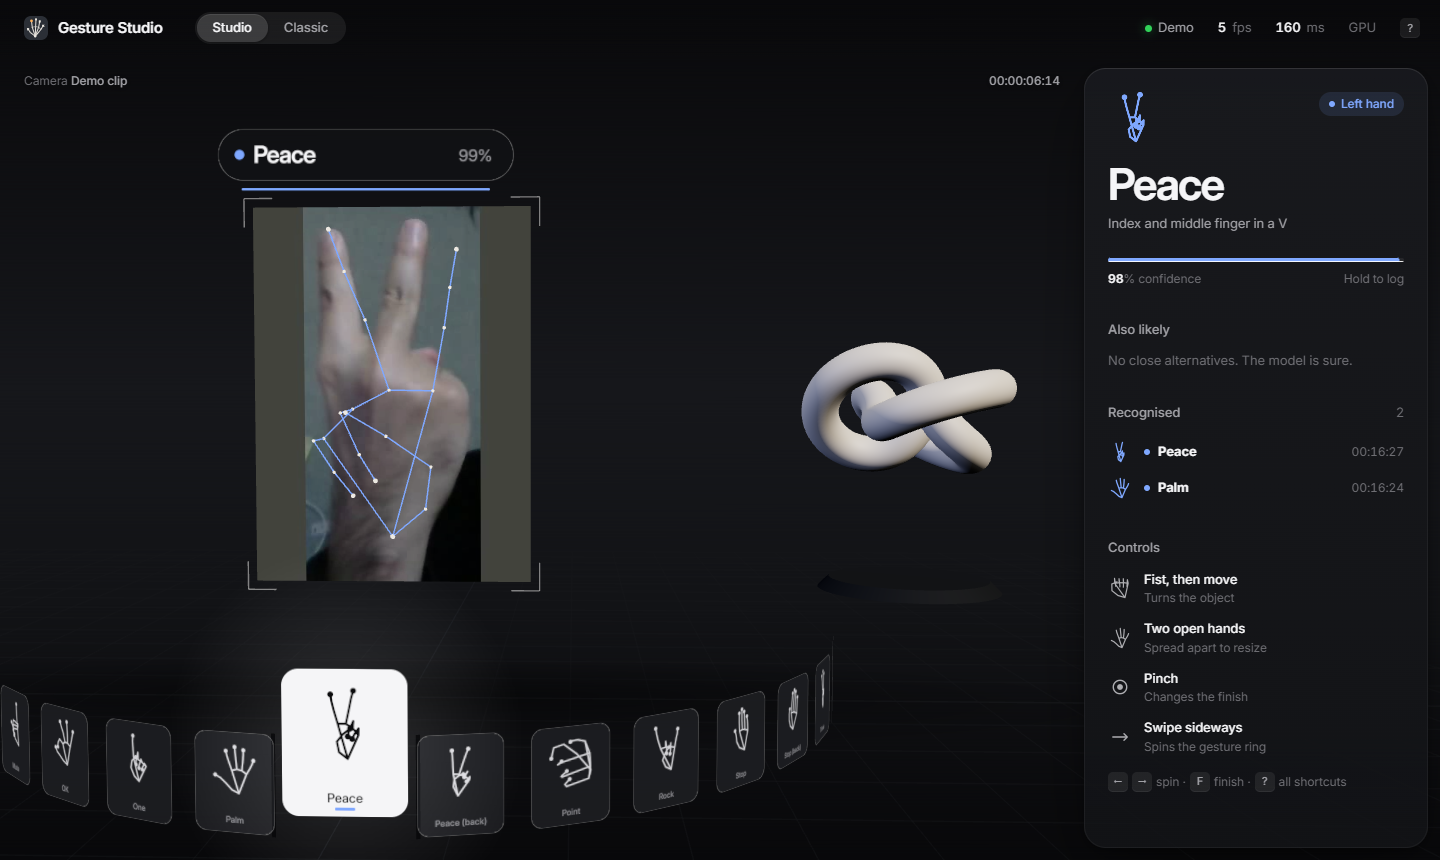
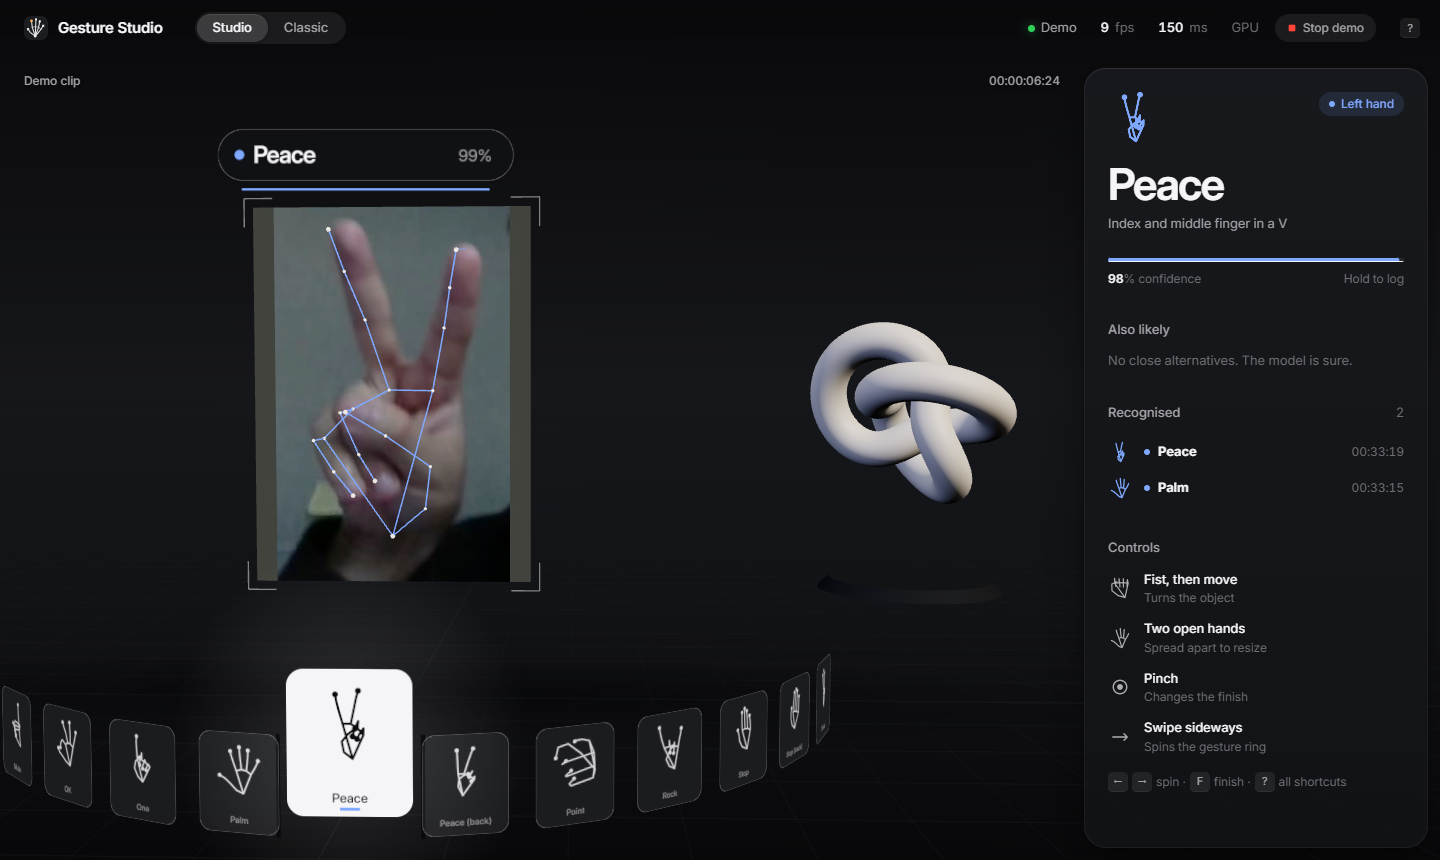
Stop control, seamless Studio/Classic switching, README refresh
- Stop button in the bar while anything is running, labelled "Stop demo" or
  "Stop camera" (X on the keyboard). It stops the stream or clip, clears the
  stage and panels, and returns to the start screen. Visible on phones too.
- Switching between Studio and Classic keeps the session: the source is remembered
  for the tab and resumed on the other page. A camera resumes only if permission is
  already granted (never a surprise prompt); stopping forgets it.
- "No close alternatives" appears only after the last row has faded out (no overlap).
- Slate reads "Demo clip" / "Camera · W × H"; logo uses the current palette.
- README: removes stale bloom / particle claims, describes the worker and motion
  model, and the start instructions match the new buttons.

diff --git a/web/js/studio3d.js b/web/js/studio3d.js
@@ -11,7 +11,7 @@ import { GESTURES, gestureInfo } from "./gestures-meta.js";
 import { PoseHero } from "./hero.js";
 import { approach, onFrame, reducedMotion, Spring, SpringList, stableRank, TweenNumber } from "./motion.js";
 import { describeCameraError, HandTracker } from "./tracker.js";
-import { announce, bindHelp, notice, typing } from "./ui.js";
+import { announce, bindHelp, notice, session, typing } from "./ui.js";
 
 const CONNECTIONS = [
   [0, 1], [1, 2], [2, 3], [3, 4], [0, 5], [5, 6], [6, 7], [7, 8], [5, 9], [9, 10], [10, 11], [11, 12],
@@ -635,13 +635,14 @@ function renderTips() {
 }
 
 let idle = null;
+let wantNote = false; // "no close alternatives": shown only once the last row has faded out
 let posesReady = false;
 function setIdle(on) {
   if (on === idle) return;
   idle = on;
   $("alts-idle").hidden = !on;
   $("alts").hidden = on;
-  if (on) $("alts-note").hidden = true;
+  if (on) wantNote = false;
   if (on) {
     altList.clear();
     if (posesReady) renderTips();
@@ -692,7 +693,7 @@ function updatePanel(state, t, landmarkMs) {
   // Only real contenders (>= 1%) are listed; a wall of 0% rows is noise, not information.
   const alts = stableRank(primary.top.filter((c) => c.id !== id && c.p >= 0.01).map((c) => ({ key: c.id, p: c.p })), [...altList.rows.keys()]).slice(0, 4);
   altList.set(alts);
-  $("alts-note").hidden = alts.length > 0;
+  wantNote = alts.length === 0;
 }
 
 function logGesture(id, color) {
@@ -720,6 +721,9 @@ onFrame((dt) => {
   $("hold-bar").style.transform = `scaleX(${h.toFixed(4)})`;
   for (const bar of ui.altBars.values()) bar.el.style.transform = `scaleX(${Math.max(0, bar.s.step(dt)).toFixed(4)})`;
   altList.step(dt);
+  const note = $("alts-note");
+  const showNote = wantNote && altList.rows.size === 0;
+  if (note.hidden === showNote) note.hidden = !showNote;
   takeList.step(dt);
   for (const key of ui.altBars.keys()) if (!altList.rows.has(key)) ui.altBars.delete(key);
 });
@@ -877,7 +881,15 @@ ready
       : "No usable GPU, so hand tracking runs on the processor. It still works, at a lower frame rate.";
     if (delegate !== "GPU") notice("Running on the CPU: WebGL acceleration isn't available in this browser.", { tone: "busy", timeout: 9000 });
     if (params.has("autostart")) queueMicrotask(() => begin()); // demos and screenshots
-    else btn.focus({ preventScroll: true });
+    else {
+      btn.focus({ preventScroll: true });
+      // Coming from Classic with the camera on: carry straight on.
+      session.resumable().then((source) => {
+        if (!source || running) return;
+        setBoot("Resuming", "busy");
+        begin(source === "camera" ? undefined : source);
+      });
+    }
   })
   .catch((err) => {
     console.error(err);
@@ -912,7 +924,10 @@ async function begin(demo = params.get("video") || undefined) {
     $("cam-state").textContent = "Starting tracking";
     $("cam-dot").className = "dot busy";
     waitingFirst = isDemo ? "Demo" : "Live";
-    $("slate-res").textContent = isDemo ? "Demo clip" : `${video.videoWidth} × ${video.videoHeight}`;
+    $("slate-res").textContent = isDemo ? "Demo clip" : `Camera · ${video.videoWidth} × ${video.videoHeight}`;
+    session.remember(demo ?? "camera");
+    $("stop-btn").hidden = false;
+    $("stop-btn").lastElementChild.textContent = isDemo ? "Stop demo" : "Stop camera";
     fit();
     $("inspector").focus({ preventScroll: true });
   } catch (err) {
@@ -926,6 +941,36 @@ async function begin(demo = params.get("video") || undefined) {
 }
 
 btn.addEventListener("click", () => begin());
+
+/** Turns the camera (or clip) off and returns to the start screen. */
+function stopSession() {
+  tracker.stop();
+  session.forget();
+  running = false;
+  waitingFirst = null;
+  latest = null;
+  hands3d.forEach(hideHand);
+  screenIn.set(0);
+  setTimeout(() => { if (!running) { screen.visible = false; stageVisible = false; } }, 500);
+  viewport.classList.remove("live");
+  startEl.hidden = false;
+  void startEl.offsetWidth;
+  startEl.classList.remove("leaving");
+  hero?.start();
+  $("stop-btn").hidden = true;
+  $("cam-dot").className = "dot";
+  $("cam-state").textContent = "Standby";
+  ui.fps.set(0);
+  ui.latency.set(0);
+  hud.fps = 0;
+  updatePanel({ hands: [], pair: null, events: [], classifyMs: 0 }, performance.now(), 0);
+  btn.disabled = demoBtn.disabled = false;
+  btnLabel.textContent = "Turn on camera";
+  setBoot("Camera off", "");
+  btn.focus({ preventScroll: true });
+  announce("Camera off");
+}
+$("stop-btn").addEventListener("click", stopSession);
 tracker.onEnded = () => {
   running = false;
   $("cam-dot").className = "dot err";
@@ -944,6 +989,7 @@ document.addEventListener("keydown", (e) => {
   else if (k === "f" || k === "F") setFinish(objectState.finish + 1), notice(`Finish: ${FINISHES[objectState.finish].name}`, { tone: "live", timeout: 1600 });
   else if (k === "r" || k === "R") { objectState.rotX = objectState.rotY = 0; objectState.scale.set(1); }
   else if (k === "c" || k === "C") location.href = "classic.html";
+  else if ((k === "x" || k === "X") && running) stopSession();
   else if (k === "Enter" && !startEl.hidden && !btn.disabled && document.activeElement === document.body) begin();
 });
 

diff --git a/web/js/app.js b/web/js/app.js
@@ -7,7 +7,7 @@ import { PoseHero } from "./hero.js";
 import { approach, onFrame, reducedMotion, Spring, SpringList, stableRank, TweenNumber } from "./motion.js";
 import { HandScene } from "./scene3d.js";
 import { describeCameraError, HandTracker } from "./tracker.js";
-import { announce, bindHelp, notice, typing } from "./ui.js";
+import { announce, bindHelp, notice, session, typing } from "./ui.js";
 
 const CONNECTIONS = [
   [0, 1], [1, 2], [2, 3], [3, 4], [0, 5], [5, 6], [6, 7], [7, 8], [5, 9], [9, 10], [10, 11], [11, 12],
@@ -955,6 +955,12 @@ ready
     els.startBtn.disabled = false;
     btnLabel.textContent = "Turn on camera";
     if (params.has("autostart")) begin(); // demos and screenshots
+    else session.resumable().then((source) => {
+      // Coming from the Studio with the camera on: carry straight on.
+      if (!source || running) return;
+      setBoot("Resuming", "busy");
+      begin(source === "camera" ? undefined : source);
+    });
   })
   .catch((err) => {
     console.error(err);
@@ -987,7 +993,10 @@ async function begin(demo = params.get("video") || undefined) {
     const isDemo = source === "demo video";
     setCam("Starting tracking", "busy");
     waitingFirst = isDemo ? "Demo" : "Live";
-    $("slate-res").textContent = isDemo ? "Demo clip" : `${vw} × ${vh}`;
+    $("slate-res").textContent = isDemo ? "Demo clip" : `Camera · ${vw} × ${vh}`;
+    session.remember(demo ?? "camera");
+    $("stop-btn").hidden = false;
+    $("stop-btn").lastElementChild.textContent = isDemo ? "Stop demo" : "Stop camera";
     els.nowSub.textContent = "No hands in view";
   } catch (err) {
     console.error(err);
@@ -999,6 +1008,33 @@ async function begin(demo = params.get("video") || undefined) {
   }
 }
 els.startBtn.addEventListener("click", () => begin());
+
+/** Turns the camera (or clip) off and returns to the start screen. */
+function stopSession() {
+  if (teach.phase !== "idle") cancelTeach("Recording stopped with the camera.");
+  tracker.stop();
+  session.forget();
+  running = false;
+  waitingFirst = null;
+  latest = null;
+  drawn.clear();
+  ctx.clearRect(0, 0, els.overlay.width, els.overlay.height);
+  for (const el of [els.video, els.overlay]) el.removeAttribute("style");
+  els.stage.style.aspectRatio = "";
+  els.stage.classList.remove("live");
+  els.start.hidden = false;
+  hero?.start();
+  cur.on = false;
+  $("stop-btn").hidden = true;
+  setCam("Standby", "");
+  for (const m of Object.values(metrics)) m.set(0);
+  updatePanels({ hands: [], pair: null, events: [], classifyMs: 0 }, performance.now() + 1000);
+  els.startBtn.disabled = demoBtn.disabled = false;
+  btnLabel.textContent = "Turn on camera";
+  setBoot("Camera off", "");
+  announce("Camera off");
+}
+$("stop-btn").addEventListener("click", stopSession);
 tracker.onEnded = () => {
   running = false;
   setCam("Camera lost", "err");
@@ -1021,6 +1057,7 @@ document.addEventListener("keydown", (e) => {
   else if (k === "m") runAction("mute");
   else if (k === "s") runAction("snapshot");
   else if (k === "a") $("cursor-toggle").click();
+  else if (k === "x" && running) stopSession();
   else if (tabKeys.includes(k)) selectTab(tabs[Number(k) - 1].dataset.tab);
 });
 

diff --git a/web/classic.html b/web/classic.html
@@ -34,6 +34,10 @@
       <span class="readout"><b id="fps-top">–</b> fps</span>
       <span class="readout dev" id="status-delegate">–</span>
     </div>
+    <button class="btn small stop-btn" id="stop-btn" hidden title="Stop (X)">
+      <svg viewBox="0 0 12 12" width="10" height="10" aria-hidden="true"><rect x="2" y="2" width="8" height="8" rx="1.5" fill="currentColor"/></svg>
+      <span>Stop</span>
+    </button>
     <button class="btn cursor-toggle" id="cursor-toggle" aria-pressed="true" title="Air cursor (A)">
       <svg viewBox="0 0 16 16" width="14" height="14" aria-hidden="true"><circle cx="8" cy="8" r="5.5" fill="none" stroke="currentColor" stroke-width="1.5"/><circle cx="8" cy="8" r="2" fill="currentColor"/></svg>
       <span>Air cursor</span>
@@ -47,7 +51,7 @@
         <video id="video" playsinline muted></video>
         <canvas id="overlay" aria-hidden="true"></canvas>
         <div class="slate" aria-hidden="true">
-          <span>Camera <b id="slate-res">–</b></span>
+          <span><b id="slate-res">–</b></span>
           <span><b id="fps">–</b> fps</span>
         </div>
         <div class="now" id="now">
@@ -242,6 +246,7 @@
       <dt><kbd>M</kbd></dt><dd>Mute</dd>
       <dt><kbd>S</kbd></dt><dd>Take a snapshot</dd>
       <dt><kbd>A</kbd></dt><dd>Air cursor on / off</dd>
+      <dt><kbd>X</kbd></dt><dd>Stop the camera or demo</dd>
       <dt><kbd>1</kbd>–<kbd>5</kbd></dt><dd>Switch panel tab</dd>
       <dt><kbd>Esc</kbd></dt><dd>Cancel a recording</dd>
       <dt><kbd>?</kbd></dt><dd>Show this list</dd>

diff --git a/web/index.html b/web/index.html
@@ -35,6 +35,10 @@
       <span class="readout lat"><b id="latency">–</b> ms</span>
       <span class="readout dev" id="device" title="Where hand tracking runs">–</span>
     </div>
+    <button class="btn small stop-btn" id="stop-btn" hidden title="Stop (X)">
+      <svg viewBox="0 0 12 12" width="10" height="10" aria-hidden="true"><rect x="2" y="2" width="8" height="8" rx="1.5" fill="currentColor"/></svg>
+      <span>Stop</span>
+    </button>
     <button class="btn ghost icon" id="help-btn" aria-label="Keyboard shortcuts" aria-haspopup="dialog"><kbd>?</kbd></button>
   </header>
 
@@ -43,7 +47,7 @@
     <video id="video" playsinline muted hidden></video>
 
     <div class="slate" aria-hidden="true">
-      <span>Camera <b id="slate-res">–</b></span>
+      <span><b id="slate-res">–</b></span>
       <span><b id="timecode">00:00:00:00</b></span>
     </div>
 
@@ -119,7 +123,8 @@
       <dt><kbd>←</kbd><kbd>→</kbd></dt><dd>Spin the gesture ring</dd>
       <dt><kbd>F</kbd></dt><dd>Change the object's finish</dd>
       <dt><kbd>R</kbd></dt><dd>Reset the object</dd>
-      <dt><kbd>C</kbd></dt><dd>Open Classic</dd>
+      <dt><kbd>C</kbd></dt><dd>Open Classic (the camera stays on)</dd>
+      <dt><kbd>X</kbd></dt><dd>Stop the camera or demo</dd>
       <dt><kbd>?</kbd></dt><dd>Show this list</dd>
     </dl>
   </dialog>

diff --git a/web/js/ui.js b/web/js/ui.js
@@ -42,6 +42,29 @@ export function announce(text) {
   requestAnimationFrame(() => (el.textContent = text));
 }
 
+const SOURCE_KEY = "gs.source";
+/** Remembers the running source for this tab ("camera" or a clip URL), so the other view can resume it. */
+export const session = {
+  remember(source) {
+    try { sessionStorage.setItem(SOURCE_KEY, source); } catch { /* storage unavailable */ }
+  },
+  forget() {
+    try { sessionStorage.removeItem(SOURCE_KEY); } catch { /* storage unavailable */ }
+  },
+  /** The source to resume, or null. A camera is only resumed if permission is already granted (no surprise prompt). */
+  async resumable() {
+    let source = null;
+    try { source = sessionStorage.getItem(SOURCE_KEY); } catch { return null; }
+    if (source !== "camera") return source;
+    try {
+      const p = await navigator.permissions?.query({ name: "camera" });
+      return p?.state === "granted" ? "camera" : null;
+    } catch {
+      return null;
+    }
+  },
+};
+
 /** True when a keyboard shortcut should be ignored because the user is typing or using a control. */
 export const typing = (e) =>
   e.metaKey || e.ctrlKey || e.altKey || Boolean(e.target.closest?.("input, textarea, select, [contenteditable]"));

diff --git a/web/css/studio3d.css b/web/css/studio3d.css
@@ -47,6 +47,8 @@ html, body { height: 100%; overflow: hidden; }
 .take-row { display: grid; grid-template-columns: 24px 1fr auto; align-items: center; gap: var(--s3); height: 36px; font-size: var(--t-small); }
 .take-row span { display: flex; align-items: center; gap: var(--s2); }
 .take-row .chip { width: 6px; height: 6px; border-radius: 50%; flex: none; }
+#alts-note:not([hidden]) { animation: fade-note 240ms var(--ease-out); }
+@keyframes fade-note { from { opacity: 0; } }
 .empty-note, .idle-tips p { margin: 0; font-size: var(--t-small); color: var(--faint); }
 .idle-tips ul { list-style: none; margin: var(--s3) 0 0; padding: 0; display: grid; gap: var(--s1); }
 .idle-tips li { display: grid; grid-template-columns: 32px 1fr; gap: 0 var(--s3); align-items: center; padding: 6px 0; animation: rise 420ms var(--ease-out) both; animation-delay: calc(var(--i) * 60ms); }

diff --git a/web/js/tracker.js b/web/js/tracker.js
@@ -96,6 +96,8 @@ export class HandTracker {
    * Starts the webcam, or a looping video file: `demo` if given, else `?video=<url>` in the page URL (demos, tests).
    */
   async start(demo = params.get("video")) {
+    this.latest = null; // never hand out a result from a previous session
+    this.lastVideoTime = -1;
     if (demo) {
       this.video.srcObject = null;
       this.video.src = demo;
@@ -120,9 +122,13 @@ export class HandTracker {
     return this.source;
   }
 
-  /** Stops the camera stream, if one is running. */
+  /** Stops the camera stream or clip, if one is running. */
   stop() {
     this.video.srcObject?.getTracks?.().forEach((t) => t.stop());
+    this.video.pause();
+    this.video.srcObject = null;
+    this.video.removeAttribute("src");
+    this.latest = null;
   }
 
   get aspect() {

diff --git a/web/css/tokens.css b/web/css/tokens.css
@@ -149,6 +149,10 @@ kbd {
 .readout b { color: var(--bone); font-weight: 500; }
 .readout.source { color: var(--dim); }
 .readout.dev.cpu { color: var(--amber); }
+.stop-btn { gap: 6px; color: var(--dim); }
+.stop-btn svg { color: var(--rec); }
+@media (max-width: 600px) { .stop-btn { padding: 0 10px; } }
+@media (max-width: 420px) { .bar .readout.source span:last-child { display: none; } }
 
 /* ---------------------------------------------------------------- slate (camera id + timecode on the stage) */
 .slate { position: absolute; z-index: 2; left: var(--s5); right: var(--s5); top: 72px; display: flex; justify-content: space-between; pointer-events: none; opacity: 0; transition: opacity var(--slow) var(--ease-out); font-size: var(--t-cap); color: var(--faint); }

diff --git a/README.md b/README.md
@@ -30,13 +30,13 @@
 ---
 
 A real-time hand gesture system with a full-screen **Three.js 3D interface**. Everything runs in the browser, on-device; no video leaves the tab.
-- **The scene:** your camera feed is a screen inside a 3D scene, and your tracked hands are rendered over it as glowing 3D skeletons with depth, bloom and fingertip light trails.
+- **The scene:** your camera feed is a screen inside a 3D scene, and your tracked hands are rendered over it as 3D skeletons with depth and fingertip light trails, coloured by hand (cobalt left, amber right).
 - **Gesture ring:** a 3D carousel of all 33 gestures. The one you're making flies forward.
 - **Hologram:** a 3D object you control with your hands. A fist grabs and rotates it, two open hands scale it, and a pinch recolours it.
-- **Effects:** every recognised gesture fires a particle burst, and the camera follows your hand with a slight parallax.
+- **Motion:** hand detection runs in a Web Worker, so the scene renders at display rate while the model works; every value on screen eases with frame-rate independent springs, and the camera follows your hand with a slight parallax.
 
 ```bash
-python scripts/serve_web.py      # then open http://localhost:8765 and press "Start camera"
+python scripts/serve_web.py      # then open http://localhost:8765 and press "Turn on camera" (or "Watch the demo" without a webcam)
 ```
 
 `classic.html` is a 2D dashboard with more controls: per-gesture action bindings, teaching custom gestures, an air cursor that clicks page controls, and settings.
@@ -60,7 +60,7 @@ python scripts/serve_web.py      # then open http://localhost:8765 and press "St
 | **Air cursor** | Index fingertip with a One Euro filter; pinch to click any control, pinch-drag sliders |
 | **Dwell to confirm** | A gesture must be held for 450 ms to fire, once per hold; avoids accidental triggers |
 | **Teach a gesture** | Few-shot nearest neighbour in the MLP's learned embedding space; saved in the browser |
-| **3D interface** (Three.js, `index.html`) | Video screen in 3D space, depth-aware neon hand skeletons (bloom + light trails), 33-gesture carousel, hand-controlled hologram, particle bursts, parallax camera |
+| **3D interface** (Three.js, `index.html`) | Video screen in 3D space, depth-aware hand skeletons with light trails, 33-gesture carousel, hand-controlled hologram, confirmation pulses, parallax camera; detection in a Web Worker |
 | **Gesture → action bindings** | Every gesture can drive a demo control deck (slides, media player, reactions, snapshots), remappable in the UI |
 | **Live diagnostics** | Top-5 probabilities per hand, FPS, landmark and classifier latency, event log |
 
@@ -162,7 +162,8 @@ The models are trained in PyTorch, then exported with BatchNorm folded into the 
 ├── web/                   # the browser app (no build step)
 │   ├── index.html         # 3D studio (Three.js) · classic.html: 2D dashboard
 │   ├── css/
-│   ├── js/                # studio3d (3D app), tracker, engine (dwell/swipe/pinch), features, mlp, custom, filters, app (classic)
+│   ├── js/                # studio3d (3D app), app (classic), tracker + landmark-worker (MediaPipe off the main thread),
+│   │                      # engine (dwell/swipe/pinch), features, mlp, custom, filters, motion (springs), hero, ui
 │   ├── models/            # exported classifiers (hand.json, pair.json) + parity fixture
 │   └── tests/parity.mjs   # JS vs Python check
 ├── src/hgr/               # Python: data, features, training, evaluation, real-time pipeline
